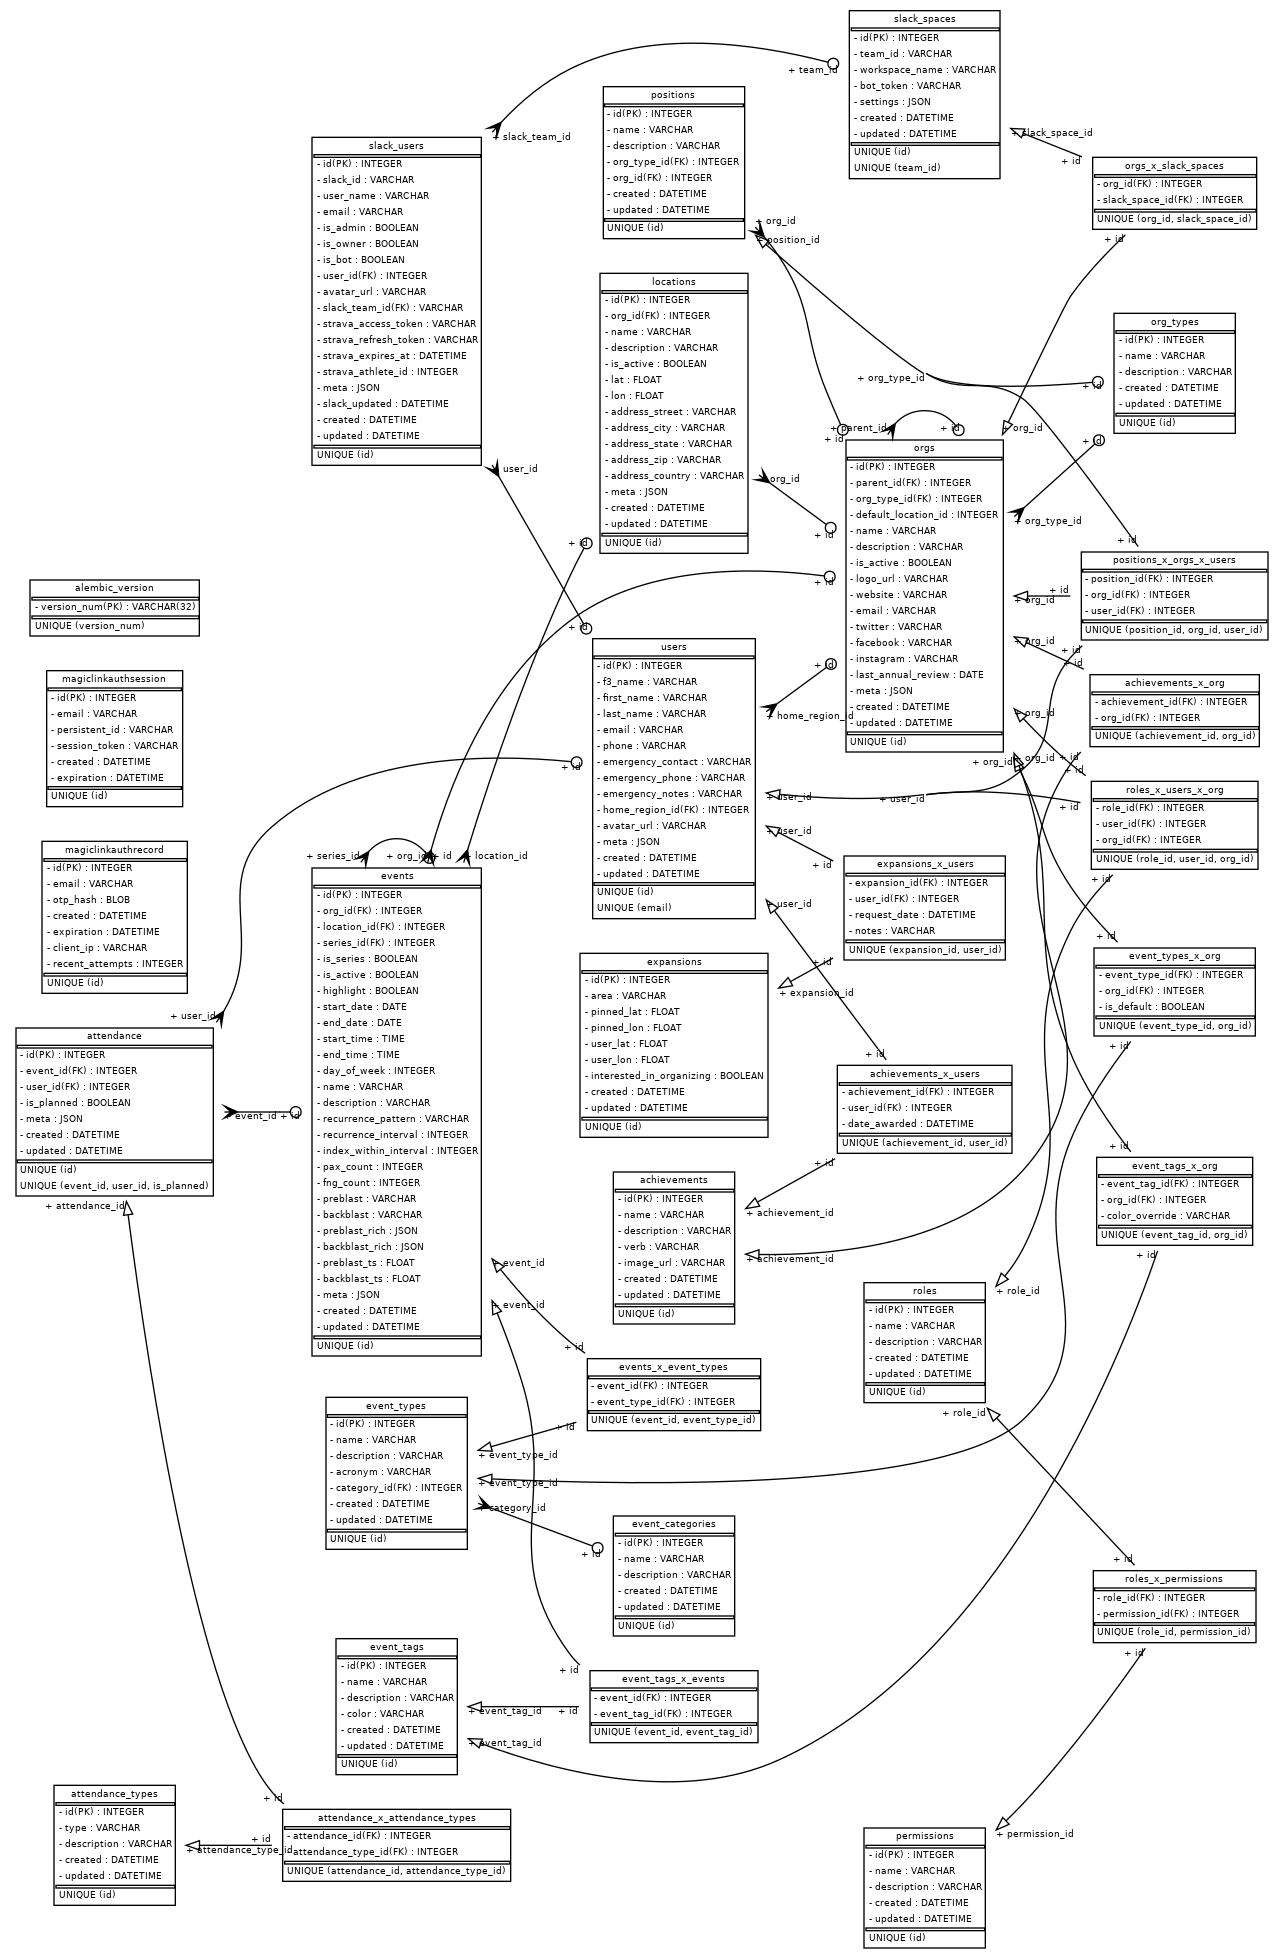
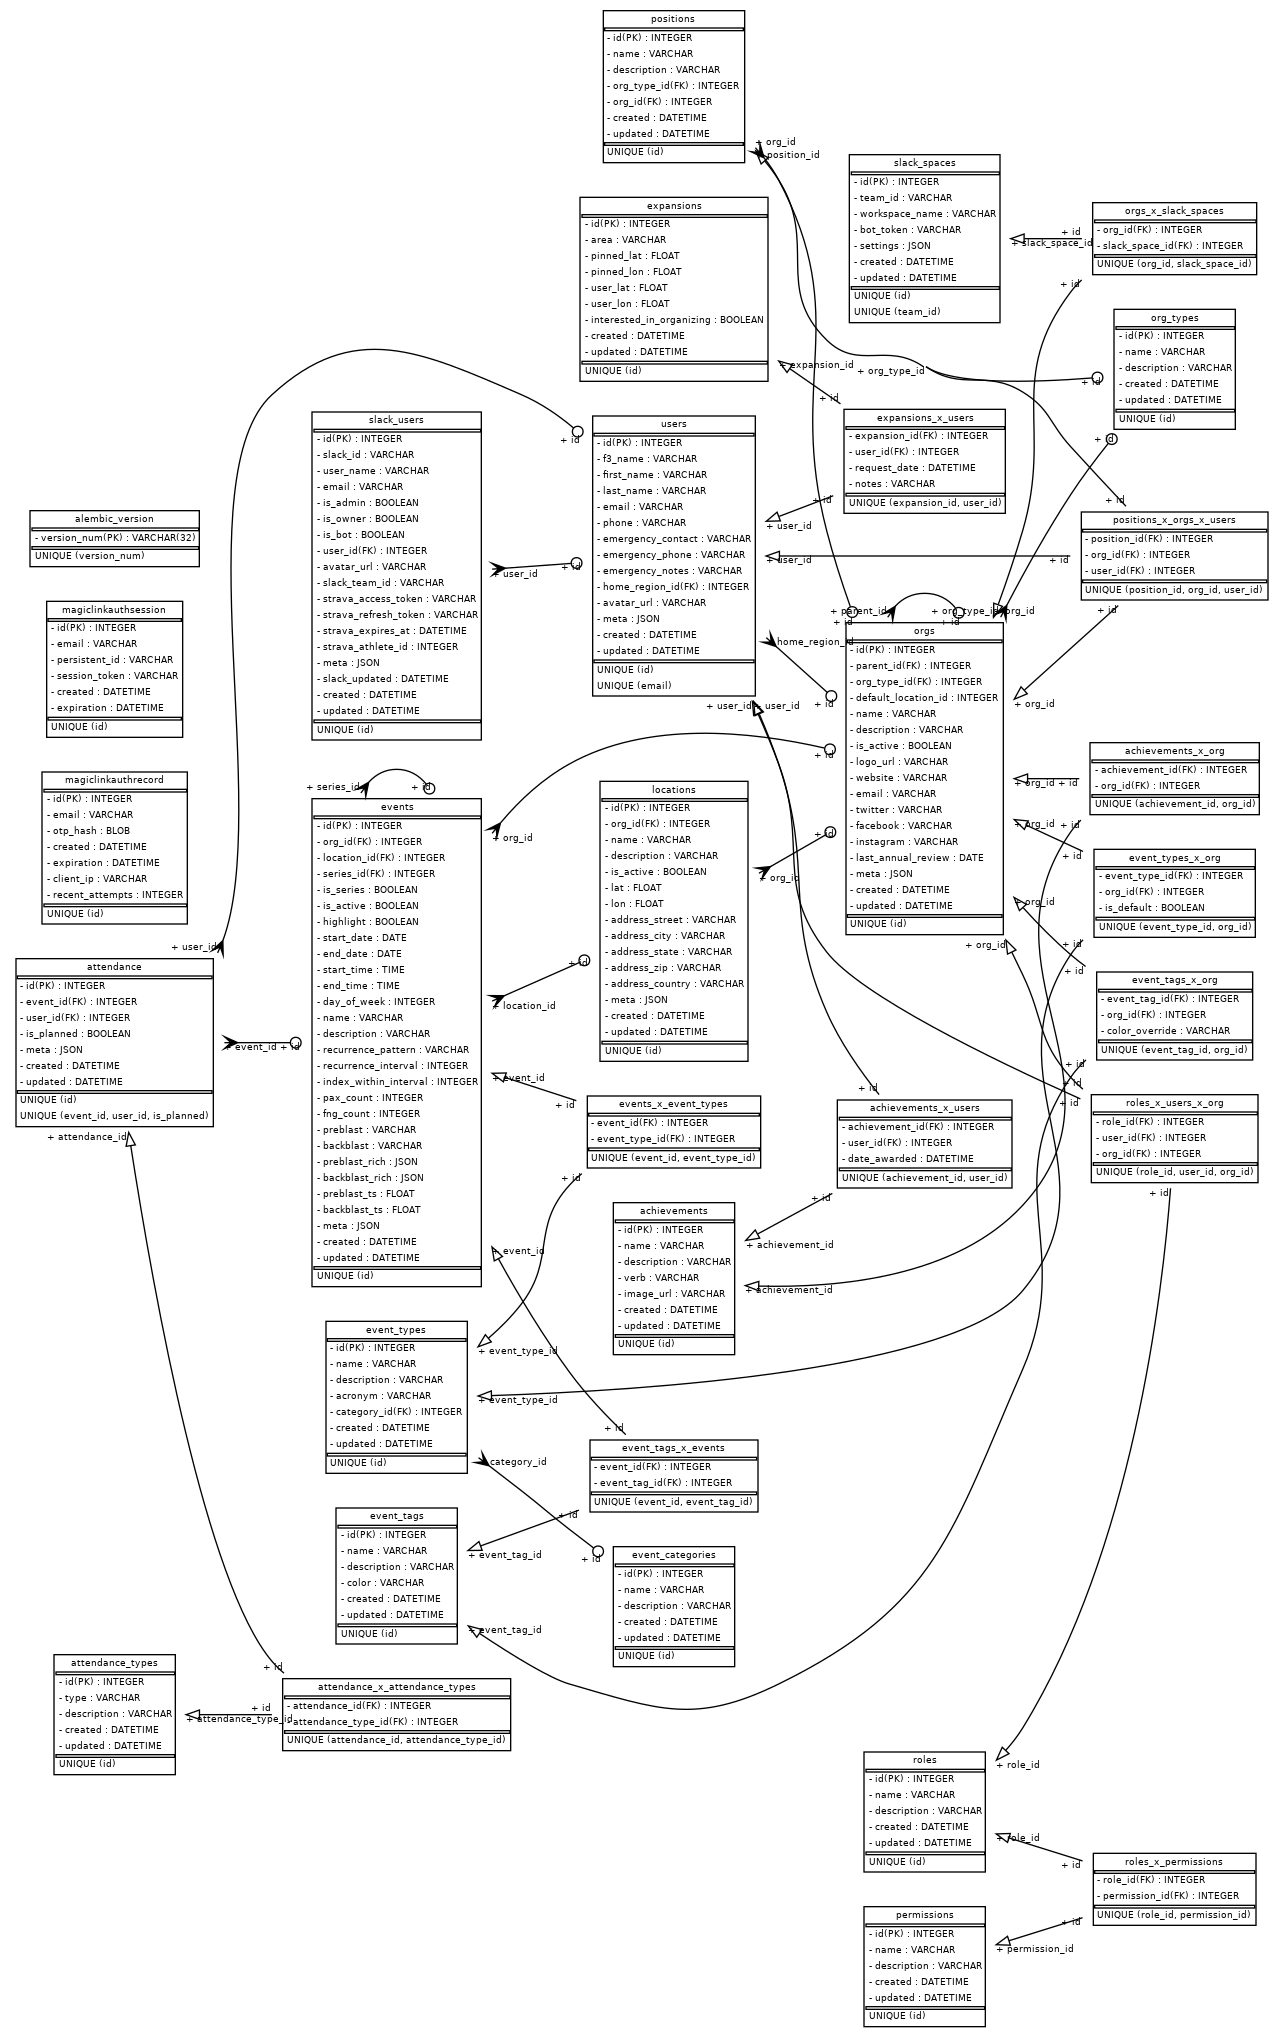
removed slack_users.slack_tem_id as fk

diff --git a/alembic/versions/5ca7a52e90f0_remove_slack_team_fk.py b/alembic/versions/5ca7a52e90f0_remove_slack_team_fk.py
@@ -1,0 +1,30 @@
+"""remove slack team fk
+
+Revision ID: 5ca7a52e90f0
+Revises: fdce925467c7
+Create Date: 2025-01-15 19:20:19.663174
+
+"""
+from typing import Sequence, Union
+
+from alembic import op
+import sqlalchemy as sa
+
+
+# revision identifiers, used by Alembic.
+revision: str = '5ca7a52e90f0'
+down_revision: Union[str, None] = 'fdce925467c7'
+branch_labels: Union[str, Sequence[str], None] = None
+depends_on: Union[str, Sequence[str], None] = None
+
+
+def upgrade() -> None:
+    # ### commands auto generated by Alembic - please adjust! ###
+    op.drop_constraint('slack_users_slack_team_id_fkey', 'slack_users', type_='foreignkey')
+    # ### end Alembic commands ###
+
+
+def downgrade() -> None:
+    # ### commands auto generated by Alembic - please adjust! ###
+    op.create_foreign_key('slack_users_slack_team_id_fkey', 'slack_users', 'slack_spaces', ['slack_team_id'], ['team_id'])
+    # ### end Alembic commands ###

diff --git a/f3_data_models/models.py b/f3_data_models/models.py
@@ -727,7 +727,7 @@ class SlackUser(Base):
     is_bot: Mapped[bool]
     user_id: Mapped[Optional[int]] = mapped_column(ForeignKey("users.id"))
     avatar_url: Mapped[Optional[str]]
-    slack_team_id: Mapped[str] = mapped_column(ForeignKey("slack_spaces.team_id"))
+    slack_team_id: Mapped[str]
     strava_access_token: Mapped[Optional[str]]
     strava_refresh_token: Mapped[Optional[str]]
     strava_expires_at: Mapped[Optional[datetime]]
